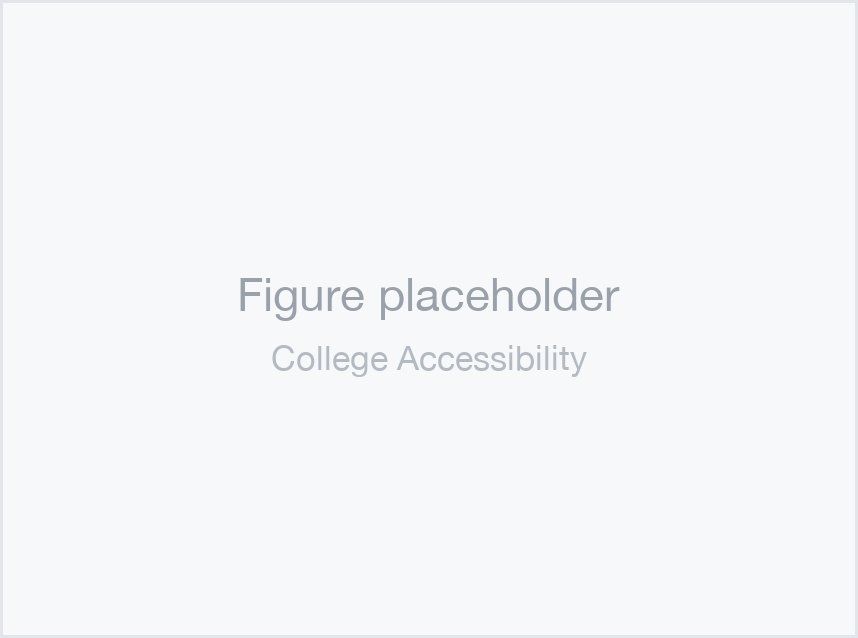
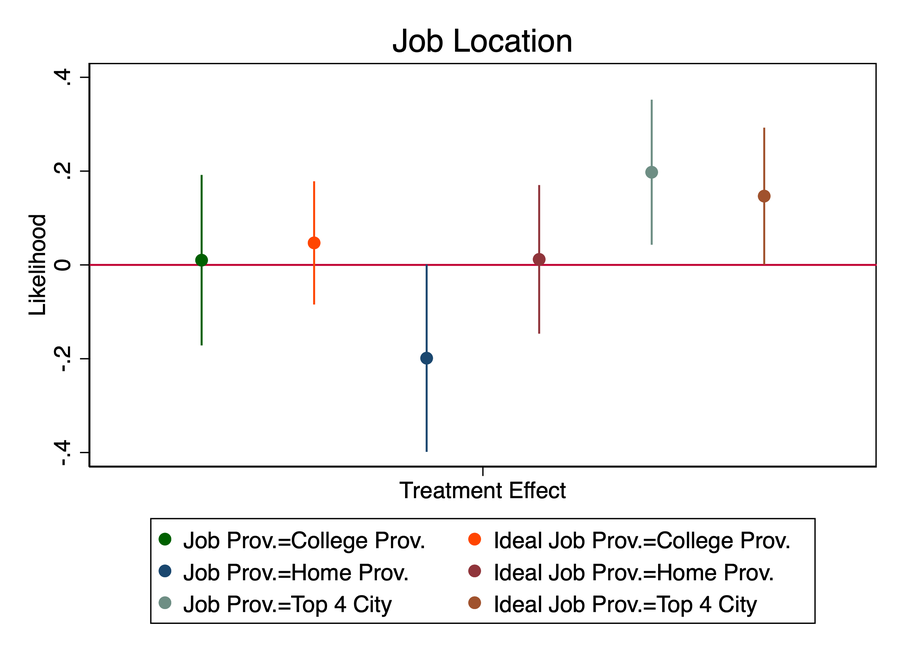
Research: draft status pills, coauthor links, real figures
- Hide the Manuscript buttons for the JMP, Bail Decision, Perceived
  Discrimination and AI and Labor Market behind HTML comments, and mark
  each with a gray "Draft Coming Soon" pill ahead of the Abstract button;
  comment out their thumbnails as well
- Link coauthor names to their homepages (Ba, D'Haultfoeuille, Maurel,
  Viceisza, Xu, Hao), styled to stay quiet until hover
- Replace the College Accessibility and Disaster under Control
  placeholders with the real figures

Changed region(s): [[0.0, 0.0, 1.0, 1.0], [0.697, 0.1489, 0.7273, 0.3574], [0.8485, 0.268, 0.8788, 0.3276]]

diff --git a/_pages/research.html b/_pages/research.html
@@ -51,6 +51,12 @@ author_profile: false
     font-weight: 650; font-size: 1.06rem; line-height: 1.35; color: #1a1a1a; margin: 0 0 0.25rem;
   }
   .paper .authors { color: #444; font-size: 0.92rem; margin: 0 0 0.15rem; }
+  .paper .authors a {
+    color: inherit; text-decoration: none;
+    border-bottom: 1px solid #d9dee6;
+    transition: color .15s ease, border-color .15s ease;
+  }
+  .paper .authors a:hover { color: #2563eb; border-bottom-color: #9dbcf5; }
   .paper .authors .me { font-weight: 600; }
   .paper .venue  { color: #666; font-style: italic; font-size: 0.95rem; margin: 0.15rem 0 0; }
 
@@ -86,6 +92,16 @@ author_profile: false
   }
   .links a:hover, .abstract-toggle:hover { background: #f0f5ff; }
 
+  /* Status pill for papers whose draft is not circulating yet. Deliberately
+     borderless and gray so it never reads as a clickable button. */
+  .draft-soon {
+    display: inline-flex; align-items: center;
+    font-size: 0.72rem; font-weight: 600; letter-spacing: 0.04em;
+    text-transform: uppercase; white-space: nowrap;
+    padding: 0.14rem 0.5rem; border-radius: 4px;
+    background: #f1f2f4; color: #767d88;
+  }
+
   .abstract {
     display: none; margin-top: 0.7rem; padding: 0.8rem 1rem;
     background: #fafafa; border-left: 3px solid #d5ddec; border-radius: 0 6px 6px 0;
@@ -113,19 +129,24 @@ author_profile: false
       </div>
       -->
       <div class="links">
+        <span class="draft-soon">Draft Coming Soon</span>
+        <!--
         <a href="https://www.dropbox.com/scl/fi/34kf0eju4wo2mkulo9384/MW_Visa.pdf?rlkey=5ih9gvfnyb7hz9bmugti8flc0&st=7h97flgf&dl=0"
          target="_blank"
          rel="noopener noreferrer">
          Manuscript
         </a>
+        -->
       </div>
       <p class="abstract open">
         We study how tightening post-study work visa policy jointly shapes international students' decisions of where to study and where to work. We leverage the 2012 UK visa reform, which abolished a two-year unconditional post-study work visa, to quantify how sensitive international master's students' education choices are to labor-market access in the destination country. Using a novel longitudinal panel of LinkedIn profiles, we first find that the policy brought large unintended hiring frictions in the high-skilled sector. Applying a difference-in-differences design, we further identify a significant decline in UK master's enrollment among Indian students. To interpret this response and separate its channels, we then develop a two-stage dynamic model of education and post-graduation work choices. The model attributes over one-third of the loss in high-skilled labor to the indirect deterrence effect on the education margin, a share that is even larger for STEM majors. We further find that a one-percent loss in skilled labor positions is associated with a 0.7% loss of students for STEM and a 0.5% loss for non-STEM. Our results highlight that a reform targeting low-skilled employment can create negative spillovers to high-skilled hiring, and quantify the cost of shrinking employment opportunities for education exports.
       </p>
     </div>
+    <!--
     <div class="paper-fig">
       <img src="/files/fig_jmp.png" alt="Key figure from the job market paper">
     </div>
+    -->
    </div>
   </article>
 
@@ -136,7 +157,7 @@ author_profile: false
    <div class="paper-row">
     <div class="paper-main">
       <p class="title">Bail Decision and Racial Discrimination</p>
-      <p class="authors">with Bocar A. Ba, Xavier D'Haultfœuille, and Arnaud Maurel</p>
+      <p class="authors">with <a href="https://sites.google.com/view/bocarba/" target="_blank" rel="noopener noreferrer">Bocar A. Ba</a>, <a href="https://faculty.crest.fr/xdhaultfoeuille/" target="_blank" rel="noopener noreferrer">Xavier D'Haultfœuille</a>, and <a href="https://www.amaurel.net/" target="_blank" rel="noopener noreferrer">Arnaud Maurel</a></p>
       <!--
       <div class="tags">
         <span class="tag discrimination">Discrimination</span>
@@ -144,18 +165,23 @@ author_profile: false
       </div>
       -->
       <div class="links">
+        <span class="draft-soon">Draft Coming Soon</span>
         <button class="abstract-toggle" onclick="toggleAbs(this)">Abstract</button>
+        <!--
         <a href="https://www.dropbox.com/scl/fi/8gnh8gecxp4vk8k5j26fm/BDMM_Judge.pdf?rlkey=dob165r84g6z7jyof6ya1eq75&amp;st=iupywz7i&amp;dl=0"
          target="_blank"
          rel="noopener noreferrer">
          Manuscript
         </a>
+        -->
       </div>
       <p class="abstract">This paper investigates the determinants of bail decisions. We focus on the determinants of bail amounts set by the judges, a dimension that has not received much attention in the literature. To do so, we specify a structural model of the optimal bail amount, in which judges set the bail amount that minimizes the welfare cost of releasing the defendant. Our model allows for multiple dimensions of defendant-level unobserved heterogeneity, some being private information to the defendant and some being observed by the judge but not by econometricians. We establish constructive identification of the model parameters, including the welfare weights assigned by the judges to different groups of defendants, and derive a simple estimation procedure. We estimate our model using data from Chicago, focusing on whether the observed bail amounts are consistent with racial bias.</p>
     </div>
+    <!--
     <div class="paper-fig">
       <img src="/files/fig_bail.png" alt="Figure placeholder for Bail Decision and Racial Discrimination">
     </div>
+    -->
    </div>
   </article>
 
@@ -163,7 +189,7 @@ author_profile: false
    <div class="paper-row">
     <div class="paper-main">
       <p class="title">Perceived Discrimination and Job Search among First- and Second-Generation Americans</p>
-      <p class="authors">with Arnaud Maurel, Angelino Viceisza, and Daniel Y. Xu</p>
+      <p class="authors">with <a href="https://www.amaurel.net/" target="_blank" rel="noopener noreferrer">Arnaud Maurel</a>, <a href="https://www.angelinoviceisza.com/" target="_blank" rel="noopener noreferrer">Angelino Viceisza</a>, and <a href="https://www.danielyixu.com/" target="_blank" rel="noopener noreferrer">Daniel Y. Xu</a></p>
       <!--
       <div class="tags">
         <span class="tag immigration">Immigration</span>
@@ -172,18 +198,23 @@ author_profile: false
       </div>
       -->
       <div class="links">
+        <span class="draft-soon">Draft Coming Soon</span>
         <button class="abstract-toggle" onclick="toggleAbs(this)">Abstract</button>
+        <!--
         <a href="https://www.dropbox.com/scl/fi/tejocmw9ixcp5glx2eqhc/MMVX_Immigrant_Belief.pdf?rlkey=0826att3kiu51nypee73giuf9&amp;st=810we88h&amp;dl=0"
          target="_blank"
          rel="noopener noreferrer">
          Manuscript
         </a>
+        -->
       </div>
       <p class="abstract">This paper investigates the relationship between perceived discrimination and job search behavior among first- and second-generation Americans. We elicit beliefs regarding two distinct domains of discrimination: the "current workplace" and the "job search process". We also conduct an information intervention experiment to see if light-touch population-level information would shift idiosyncratic beliefs and job search behavior. We first document that immigrants perceive substantial disparities between themselves and a counterfactual native in both domains. In addition, immigrants overestimate the native–immigrant earnings gap in their occupation. Providing population-level earnings statistics successfully shifts posterior beliefs and reduces over-pessimism among treated participants in both domains. In a five-month follow-up, we find that higher perceived discrimination in both domains predicts increased search probabilities and efforts. Using initial population belief errors and treatment assignment as instruments, we find that a one-standard-deviation increase in perceived discrimination raises the probability of preparatory job search by 33.5 percentage points. These results suggest that immigrants respond to perceived unfairness in their current work or in the job search process by intensifying their search effort, rather than becoming discouraged. Furthermore, providing accurate market information might decrease search intensity.</p>
     </div>
+    <!--
     <div class="paper-fig">
       <img src="/files/fig_immigrant.png" alt="Figure placeholder for Perceived Discrimination and Job Search">
     </div>
+    -->
    </div>
   </article>
 
@@ -200,18 +231,23 @@ author_profile: false
       </div>
       -->
       <div class="links">
+        <span class="draft-soon">Draft Coming Soon</span>
         <button class="abstract-toggle" onclick="toggleAbs(this)">Abstract</button>
+        <!--
         <a href="https://www.dropbox.com/scl/fi/uqi923dfv5gfnaca3rd4x/BM_AI_H1B.pdf?rlkey=84kl78kgtkv58ip304op8xcgt&amp;st=aq2upird&amp;dl=0"
          target="_blank"
          rel="noopener noreferrer">
          Manuscript
         </a>
+        -->
       </div>
       <p class="abstract">Abstract coming soon.</p>
     </div>
+    <!--
     <div class="paper-fig">
       <img src="/files/fig_ai_h1b.png" alt="Figure placeholder for AI and Labor Market">
     </div>
+    -->
    </div>
   </article>
 
@@ -236,7 +272,7 @@ author_profile: false
       <p class="abstract">Access to higher education significantly influences social equality and intergenerational mobility, which is directly governed by the regional college admission quota system in China. The Chinese government initiated the "Cooperative Plan of College Enrollment in the Mid-western Province" (CPCE) in 2008, mandating some colleges in provinces with rich education resources to allocate admission quotas to Mid-western provinces. Using the Difference-in-Difference strategy, we find that while the policy led to lower entrance test scores for students from recipient provinces, these individuals did not exhibit inferior academic performance compared to their counterparts enrolled before the policy. Moreover, the policy induced students with stronger desire to work in metropolitan labor markets post-graduation to enroll in colleges located in eastern provinces, resulting in more Mid-western students working in China's top-four cities.</p>
     </div>
     <div class="paper-fig">
-      <img src="/files/fig_college.png" alt="Figure placeholder for College Accessibility and Quota Relocation">
+      <img src="/files/fig_college.png" alt="Treatment effects on job location choice">
     </div>
    </div>
   </article>
@@ -245,7 +281,7 @@ author_profile: false
    <div class="paper-row">
     <div class="paper-main">
       <p class="title">Disaster under control: droughts, locust outbreaks, and state capacity in premodern China, 1644-1911</p>
-      <p class="authors"> with Yu Hao</p>
+      <p class="authors"> with <a href="https://econ.pku.edu.cn/english/faculty/fulltimefaculty/dsfdscgghhj_20211027164618909168/50107jjxy357936.htm" target="_blank" rel="noopener noreferrer">Yu Hao</a></p>
       <p class="venue">Undergraduate Thesis, 2019</p>
       <!--
       <div class="tags">
@@ -265,7 +301,7 @@ author_profile: false
       <p class="abstract">Locust outbreaks, which are normally caused by drought, pose a major threat to agrarian societies. Nonetheless, state intervention could effectively mitigate the impacts of droughts on locusts by coordinating and enforcing antilocust actions. Based on a provincial panel dataset for Qing China (1644-1911), we find locust outbreaks to be positively related to droughts in current and previous years. A within-province centralization reform imposed in the 1720s mitigated the impacts of drought on locust outbreaks in current and previous years. A further investigation shows that the mitigation effect is nonmonotonic with the degree of centralization, suggesting that both central coordination and local information were important. In addition, the reform enhanced bureaucratic control over local officials in times of crisis, leading to more effective locust control.</p>
     </div>
     <div class="paper-fig">
-      <img src="/files/fig_locust.png" alt="Figure placeholder for Disaster under Control">
+      <img src="/files/fig_locust.png" alt="Drought and locust outbreak series, Qing China">
     </div>
    </div>
   </article>
